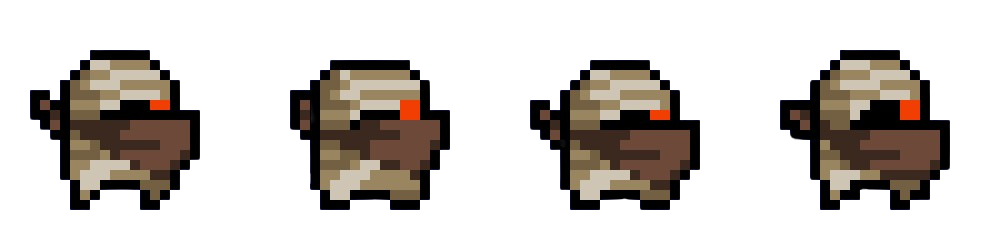
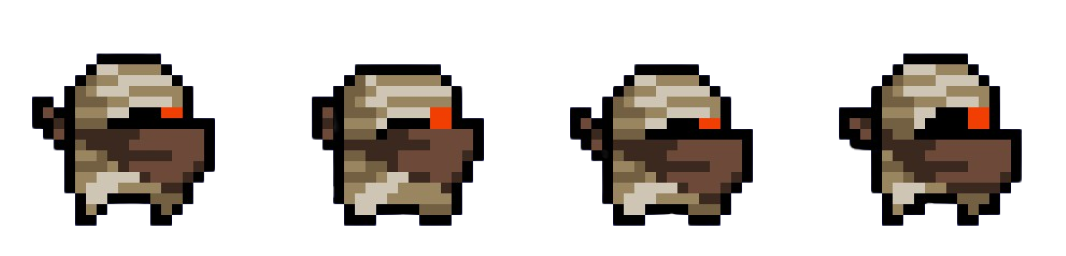
le commit

diff --git a/src/gameObjects/enemy.js b/src/gameObjects/enemy.js
@@ -20,7 +20,7 @@ export class Enemy extends Phaser.Physics.Arcade.Sprite
     {   this.anims.create({
             key: 'BanditIdle',
             frames: this.anims.generateFrameNumbers('BanditIdle', { start: 0, end: 3 }),
-            frameRate: 10,
+            frameRate: 5,
             repeat: -1
         });
 
